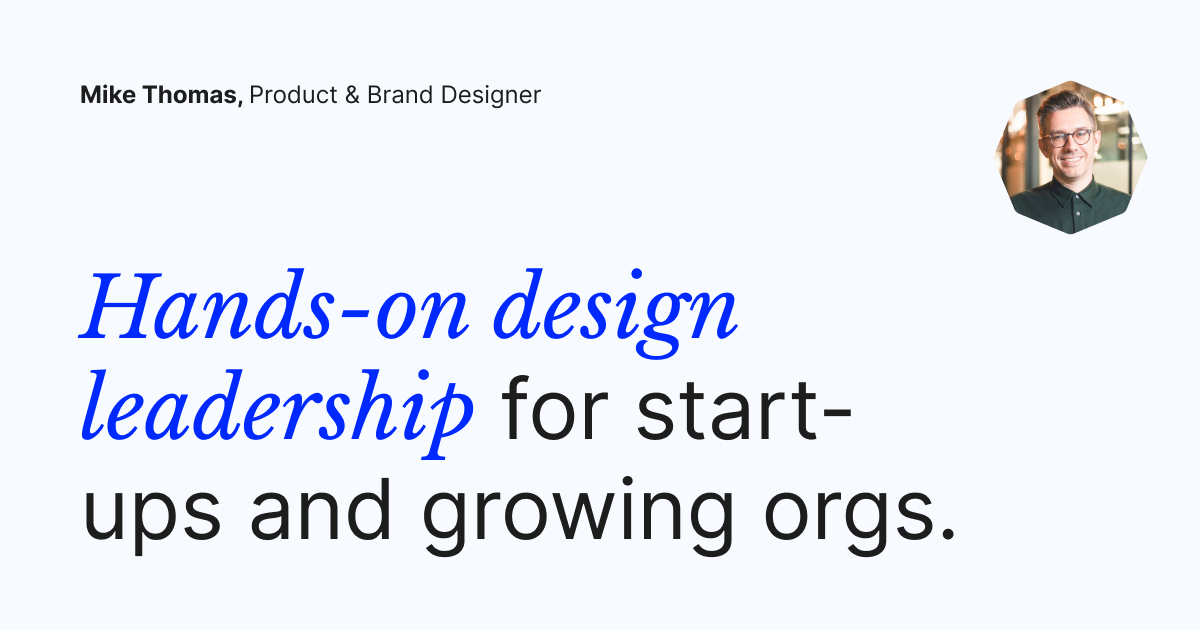
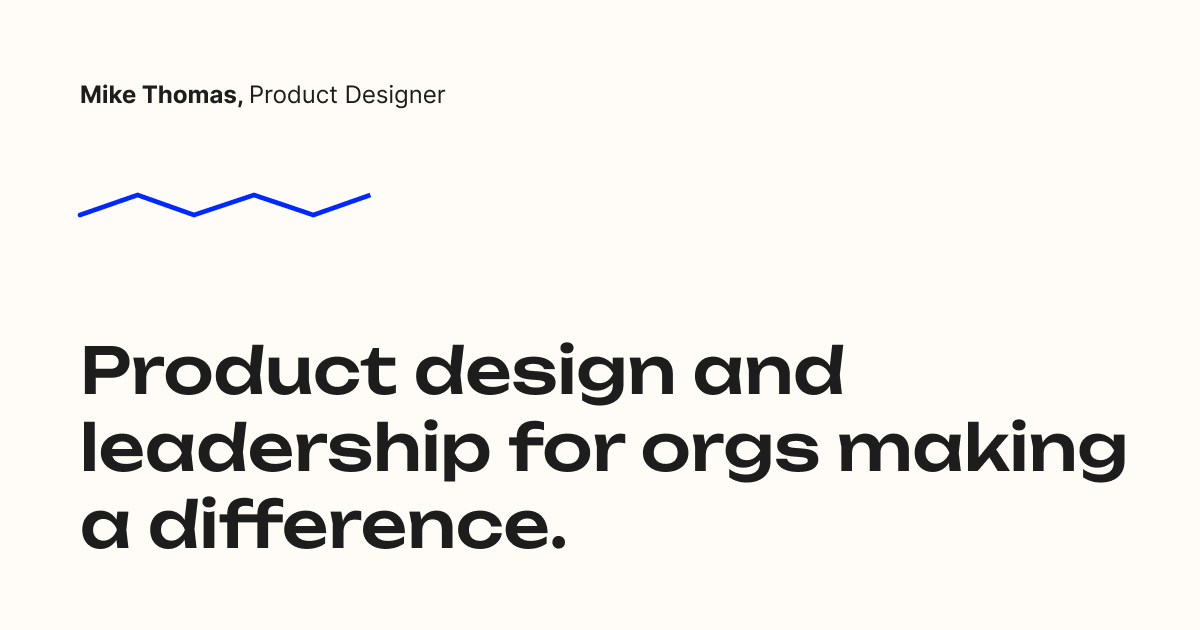
H1 tweaks and opengraph

diff --git a/src/_assets/css/styles.css b/src/_assets/css/styles.css
@@ -91,7 +91,7 @@ h1, h2, h3 {
 }
 
 h1 {
-  font-weight: 700;
+  font-weight: 500;
   font-size: 2.75rem;
   line-height:1.2;
   margin-top:4rem;

diff --git a/src/work/dso-profiles.md b/src/work/dso-profiles.md
@@ -14,14 +14,14 @@ theme:
 
 Over a two week period, I designed and implemented a Webflow-powered solution that enabled Piclo customer support to work together with external market operator teams to centralise and standardise how key market information was distributed and presented to end users, including support for multiple languages.
 
-What worked:
+### What worked
 
 - __End-users only had to visit one location__ to get the majority of the information they needed.
 - __We built stronger relationships__ with key market operator partners.
 - Customer support were __empowered to manage this work__ with minimal design and zero engineering input.
 - We were able to __scale this added-value to market operator partners globally__—localised to their regionn—for existing orgs and those in our sales pipeline.
 
-Key lessons:
+### Key lessons
 
 - We underestimated the time-burden managing this content would become for our internal team. This later lead to us __forming a squad with colleagues from across the business__ who shared the upkeep responsibility.
 
